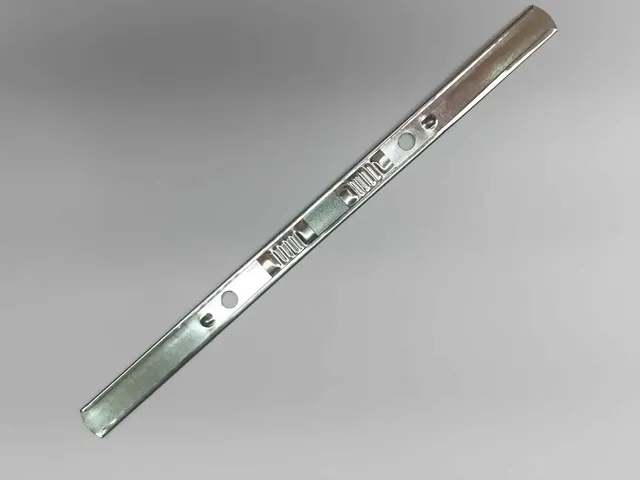
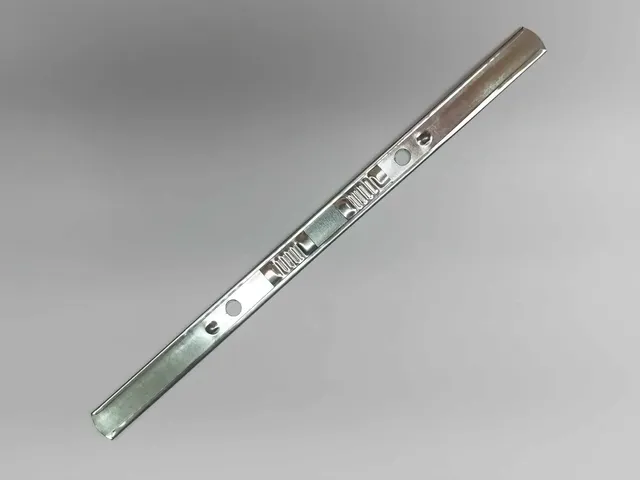
Hover zoom on product cards
- On hover the card lifts 4 px with a stronger shadow and its photo
  zooms to 1.05 inside the 4:3 box (250 ms); at rest nothing is zoomed
- Only with (hover: hover), so taps on phones don't leave cards zoomed;
  keyboard focus inside a card (:has(:focus-visible)) gets the same
  highlight; nothing moves with prefers-reduced-motion
- The image button's focus outline is drawn inside the box (the card
  clips anything outside)
- Card images re-framed so every part keeps at least 25 px (of 640) of
  background, more than the ~16 px the zoom hides: Šetajuća mehanika and
  Standardna iglica get a slightly wider crop; Lajsna, which runs almost
  edge to edge, gets 60 px of its own edge added first (new "extend"
  option in scripts/make-thumbnails.mjs, which now works in two passes)

Changed region(s): [[0.125, 0.0, 0.875, 0.9375]]

diff --git a/src/components/Product.jsx b/src/components/Product.jsx
@@ -43,18 +43,19 @@ export default function Product({ product }) {
   }, [isFullscreen]);
 
   return (
-    <article className="flex flex-col h-full bg-stone-900 border-2 border-stone-800 rounded-xl overflow-hidden shadow-lg hover:shadow-xl transition-shadow duration-300">
+    // "product-card" / "product-card-image": hover zoom and lift, see "Product card hover" in src/index.css
+    <article className="product-card flex flex-col h-full bg-stone-900 border-2 border-stone-800 rounded-xl overflow-hidden shadow-lg">
       {/* Product Image (click to enlarge). Fixed 4:3 box; the 4:3 card image fills it, object-contain
           shows the whole part. The viewer below opens the original photo. */}
       {image ? (
         <button
           type="button"
-          className="relative block w-full aspect-[4/3] overflow-hidden bg-[#c4c4c4] cursor-zoom-in"
+          className="relative block w-full aspect-[4/3] overflow-hidden bg-[#c4c4c4] cursor-zoom-in focus-visible:outline focus-visible:outline-2 focus-visible:-outline-offset-4 focus-visible:outline-cyan-400"
           onClick={openFullscreen}
           aria-label={`Uvećaj fotografiju: ${name}`}
         >
           <img
-            className={`absolute inset-0 w-full h-full object-contain ${thumbnail ? "" : "p-2"}`}
+            className={`product-card-image absolute inset-0 w-full h-full object-contain ${thumbnail ? "" : "p-2"}`}
             src={thumbnail ?? image}
             alt={alt}
             width={thumbnail ? THUMB_WIDTH : PHOTO_WIDTH}

diff --git a/src/index.css b/src/index.css
@@ -92,3 +92,31 @@ html, body {
     transition-delay: var(--reveal-delay, 0ms);
   }
 }
+
+/* Product card hover (src/components/Product.jsx): the photo zooms slightly inside its 4:3 box and
+   the card lifts a little. At rest nothing is zoomed, so the whole part is visible; the card images
+   keep ~20 px of background around each part for the 1.05 zoom (scripts/make-thumbnails.mjs).
+   Only on devices that can hover (no "stuck" zoom after a tap on phones); keyboard focus inside a
+   card gets the same highlight; nothing moves with reduced motion. */
+.product-card,
+.product-card-image {
+  transition: transform 250ms ease-out, box-shadow 250ms ease-out;
+}
+@media (prefers-reduced-motion: no-preference) {
+  .product-card:has(:focus-visible) {
+    transform: translateY(-4px);
+    box-shadow: 0 18px 30px -8px rgb(0 0 0 / 0.45);
+  }
+  .product-card:has(:focus-visible) .product-card-image {
+    transform: scale(1.05);
+  }
+}
+@media (hover: hover) and (prefers-reduced-motion: no-preference) {
+  .product-card:hover {
+    transform: translateY(-4px);
+    box-shadow: 0 18px 30px -8px rgb(0 0 0 / 0.45);
+  }
+  .product-card:hover .product-card-image {
+    transform: scale(1.05);
+  }
+}
